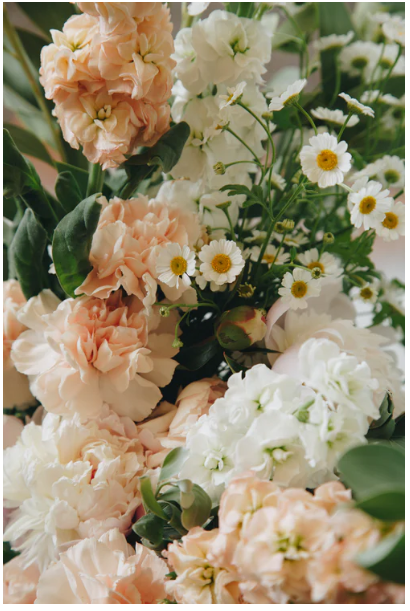
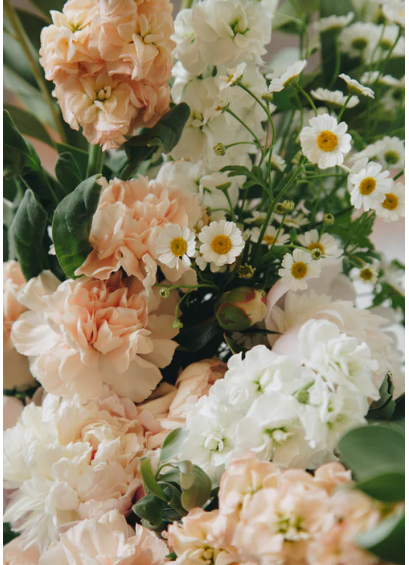
no message

diff --git a/homepage/templates/homepage.html b/homepage/templates/homepage.html
@@ -62,7 +62,7 @@
                             <div class="portfolio-hover">
                                 <div class="portfolio-hover-content"></div>
                             </div>
-                            <img class="img-fluid" src="{% static "img/homepage/bouquet5.png" %}" alt="">
+                            <img class="img-fluid" src="{% static "img/homepage/bouquet7.png" %}" alt="">
                         </a>
                         <div class="portfolio-caption">
                             <div class="portfolio-caption-heading">Bouquet 1</div>
@@ -81,46 +81,6 @@
                         </a>
                         <div class="portfolio-caption">
                             <div class="portfolio-caption-heading">Bouquet 2</div>
-                            <div class="portfolio-caption-subheading text-muted">$xxx</div>
-                        </div>
-                    </div>
-                </div>
-            </div>
-        </div>
-    </section>
-    <section class="page-section bg-light" id="portfolio">
-        <div class="container">
-            <div class="text-center">
-                <h2 class="section-heading text-uppercase">Our Event Decoration</h2>
-                <h3 class="section-subheading text-muted"></h3>
-            </div>
-            <div class="row">
-                <div class="col-lg-6 col-sm-6 mb-6">
-                    <!-- Portfolio item 1-->
-                    <div class="portfolio-item">
-                        <a class="portfolio-link" data-bs-toggle="modal" href="#portfolioModal1">
-                            <div class="portfolio-hover">
-                                <div class="portfolio-hover-content"></div>
-                            </div>
-                            <img class="img-fluid" src="{% static "img/homepage/decoration5.jpg" %}" alt="">
-                        </a>
-                        <div class="portfolio-caption">
-                            <div class="portfolio-caption-heading">Decoration 1</div>
-                            <div class="portfolio-caption-subheading text-muted">$xxx</div>
-                        </div>
-                    </div>
-                </div>
-                <div class="col-lg-6 col-sm-6 mb-6">
-                    <!-- Portfolio item 2-->
-                    <div class="portfolio-item">
-                        <a class="portfolio-link" data-bs-toggle="modal" href="#portfolioModal2">
-                            <div class="portfolio-hover">
-                                <div class="portfolio-hover-content"></div>
-                            </div>
-                            <img class="img-fluid" src="{% static "img/homepage/decoration6.jpg" %}" alt="">
-                        </a>
-                        <div class="portfolio-caption">
-                            <div class="portfolio-caption-heading">Decoration 1</div>
                             <div class="portfolio-caption-subheading text-muted">$xxx</div>
                         </div>
                     </div>
@@ -168,6 +128,47 @@
             </div>
         </div>
     </section>
+    <section class="page-section bg-light" id="portfolio">
+        <div class="container">
+            <div class="text-center">
+                <h2 class="section-heading text-uppercase">Our Event Decoration</h2>
+                <h3 class="section-subheading text-muted"></h3>
+            </div>
+            <div class="row">
+                <div class="col-lg-6 col-sm-6 mb-6">
+                    <!-- Portfolio item 1-->
+                    <div class="portfolio-item">
+                        <a class="portfolio-link" data-bs-toggle="modal" href="#portfolioModal1">
+                            <div class="portfolio-hover">
+                                <div class="portfolio-hover-content"></div>
+                            </div>
+                            <img class="img-fluid" src="{% static "img/homepage/decoration5.jpg" %}" alt="">
+                        </a>
+                        <div class="portfolio-caption">
+                            <div class="portfolio-caption-heading">Decoration 1</div>
+                            <div class="portfolio-caption-subheading text-muted">$xxx</div>
+                        </div>
+                    </div>
+                </div>
+                <div class="col-lg-6 col-sm-6 mb-6">
+                    <!-- Portfolio item 2-->
+                    <div class="portfolio-item">
+                        <a class="portfolio-link" data-bs-toggle="modal" href="#portfolioModal2">
+                            <div class="portfolio-hover">
+                                <div class="portfolio-hover-content"></div>
+                            </div>
+                            <img class="img-fluid" src="{% static "img/homepage/decoration6.jpg" %}" alt="">
+                        </a>
+                        <div class="portfolio-caption">
+                            <div class="portfolio-caption-heading">Decoration 1</div>
+                            <div class="portfolio-caption-subheading text-muted">$xxx</div>
+                        </div>
+                    </div>
+                </div>
+            </div>
+        </div>
+    </section>
+
     <!-- Contact-->
 {#    <section class="page-section" id="contact" style="background-image: url('{% static "img/homepage/footer.jpg" %}')">#}
     <section class="page-section" id="contact" style="background-color: white">

diff --git a/static/css/styles.css b/static/css/styles.css
@@ -666,7 +666,7 @@ progress {
   }
 }
 .row {
-  --bs-gutter-x: 1.5rem;
+  --bs-gutter-x: -1.5rem;
   --bs-gutter-y: 0;
   display: flex;
   flex-wrap: wrap;
